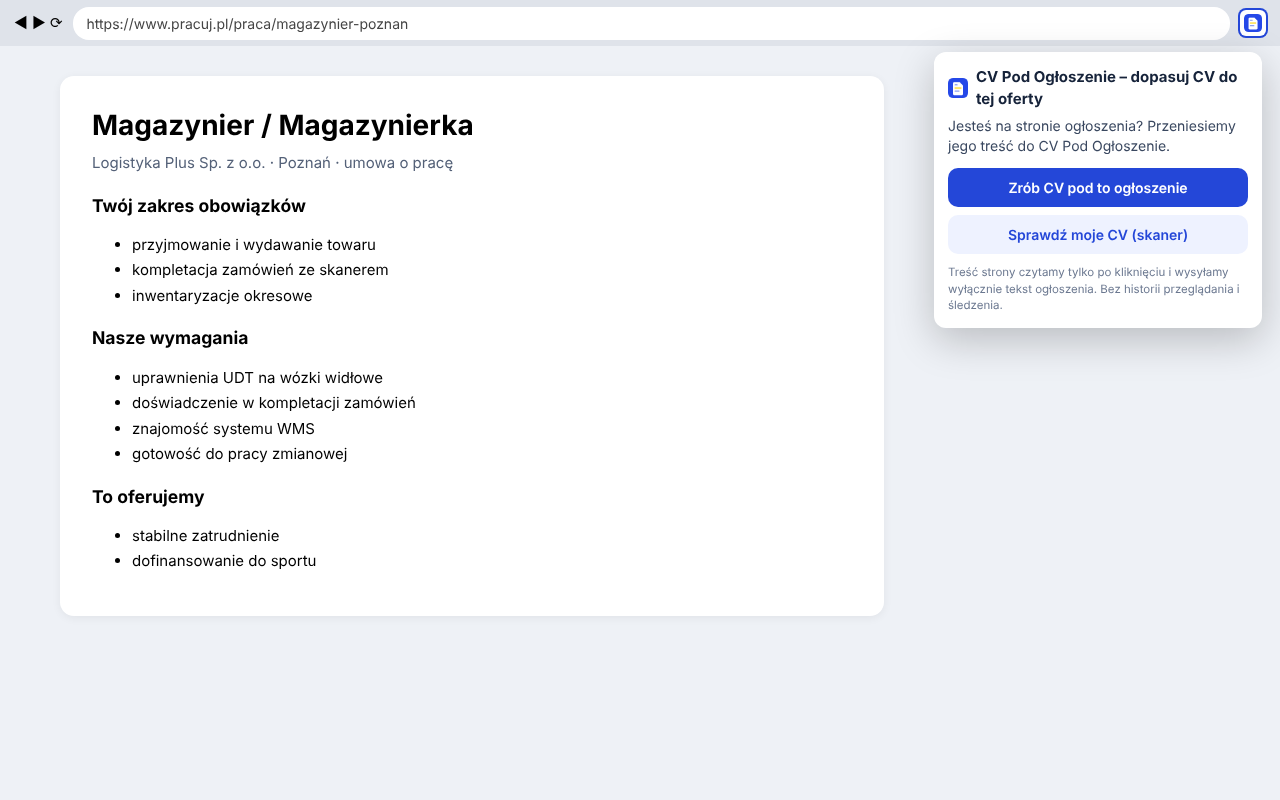
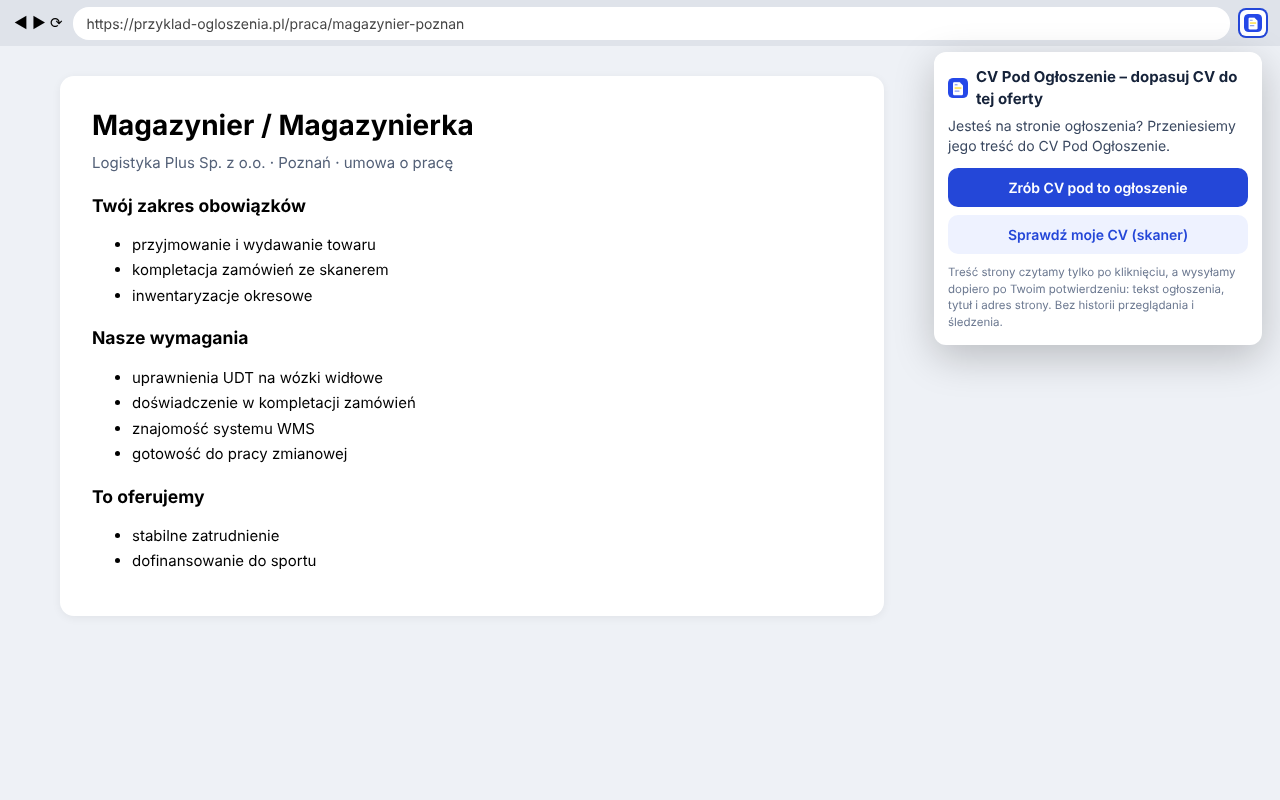
Rozszerzenie Chrome: opis i zrzut bez nazw innych portali (odrzucenie Yellow Argon)
- extension/STORE.md: krok 1 w PL i EN bez listy portali („Otwórz dowolne ogłoszenie o pracę w przeglądarce.” /
  „Open any job ad in your browser.”) i uwaga o zasadzie (odrzucenie Yellow Argon, 24.10.2026).
- extension/store/1-ogloszenie.png: pasek adresu na neutralnym https://przyklad-ogloszenia.pl/praca/magazynier-poznan.
- Test: STORE.md, komunikaty rozszerzenia (pl/en/uk/de) i manifest bez nazw innych marek.

Claude-Session: https://claude.ai/code/session_01XaV5mFLsfpA1JLzhXZRqmT

Changed region(s): [[0.7188, 0.3125, 1.0, 0.4375], [0.125, 0.0, 0.3125, 0.0625]]

diff --git a/test/sklep-chrome.test.js b/test/sklep-chrome.test.js
@@ -1,0 +1,18 @@
+import { test } from 'node:test';
+import assert from 'node:assert/strict';
+import fs from 'node:fs';
+
+// Chrome Web Store (odrzucenie Yellow Argon, 24.10.2026): w opisie i tekstach rozszerzenia bez nazw innych portali i marek.
+// Selektory stron w popup.js zostają – to kod do czytania treści ogłoszenia, nie opis w sklepie.
+const read = (f) => fs.readFileSync(new URL(`../${f}`, import.meta.url), 'utf8');
+const BRANDS = /pracuj|olx|justjoin|no ?fluff|indeed|linkedin|jooble|gowork|aplikuj|infopraca|facebook/i;
+
+test('STORE.md i komunikaty rozszerzenia (4 języki) bez nazw innych portali; uwaga o odrzuceniu', () => {
+  const store = read('extension/STORE.md');
+  assert.doesNotMatch(store.replace(/\*\*Uwaga:\*\*[^\n]*/, ''), BRANDS);
+  assert.match(store, /1\. Otwórz dowolne ogłoszenie o pracę w przeglądarce\./);
+  assert.match(store, /1\. Open any job ad in your browser\./);
+  assert.match(store, /bez nazw innych portali i marek w opisie i na zrzutach \(odrzucenie Yellow Argon, 24\.10\.2026\)/);
+  for (const l of ['pl', 'en', 'uk', 'de']) assert.doesNotMatch(read(`extension/_locales/${l}/messages.json`), BRANDS, l);
+  assert.doesNotMatch(read('extension/manifest.json'), BRANDS);
+});

diff --git a/extension/STORE.md b/extension/STORE.md
@@ -3,6 +3,7 @@
 Paczka: `npm run build:extension` → `extension.zip` (bez folderu `store/` i tego pliku).
 Zrzuty 1280×800: `extension/store/1-ogloszenie.png`, `2-kreator.png`, `3-skaner.png`.
 Ikona sklepu 128×128: `extension/icons/128.png`.
+**Uwaga:** bez nazw innych portali i marek w opisie i na zrzutach (odrzucenie Yellow Argon, 24.10.2026). Zrzut 1 pokazuje neutralny adres `https://przyklad-ogloszenia.pl/praca/magazynier-poznan`.
 Kategoria: **Productivity → Tools** (Produktywność → Narzędzia). Język domyślny: polski (dodatkowo uk, en, de).
 Strona: https://cvpodogloszenie.pl · Polityka prywatności: https://cvpodogloszenie.pl/polityka-prywatnosci (punkt 12) · Kontakt: kontakt@cvpodogloszenie.pl
 
@@ -19,7 +20,7 @@ Jedno kliknięcie na stronie ogłoszenia o pracę: zrób CV pod tę ofertę albo
 Szukasz pracy i wysyłasz CV na konkretne ogłoszenia? To rozszerzenie oszczędza kopiowanie.
 
 Jak działa:
-1. Otwórz ogłoszenie o pracę (np. pracuj.pl, OLX Praca, justjoin.it, No Fluff Jobs, Indeed, LinkedIn albo dowolną inną stronę z ofertą).
+1. Otwórz dowolne ogłoszenie o pracę w przeglądarce.
 2. Kliknij ikonę CV Pod Ogłoszenie.
 3. Wybierz „Zrób CV pod to ogłoszenie” albo „Sprawdź moje CV (skaner)”.
 4. Sprawdź podgląd odczytanego tekstu i kliknij „Wyślij”.
@@ -62,7 +63,7 @@ One click on a job ad page: get a CV tailored to this offer or check your CV wit
 Looking for a job in Poland and sending your CV to specific job ads? This extension saves you the copying.
 
 How it works:
-1. Open a job ad (e.g. pracuj.pl, OLX Praca, justjoin.it, No Fluff Jobs, Indeed, LinkedIn or any other page with an offer).
+1. Open any job ad in your browser.
 2. Click the CV Pod Ogłoszenie icon.
 3. Choose “Make a CV for this job ad” or “Check my CV (scanner)”.
 4. Check the preview of the text that was read and click “Send”.
